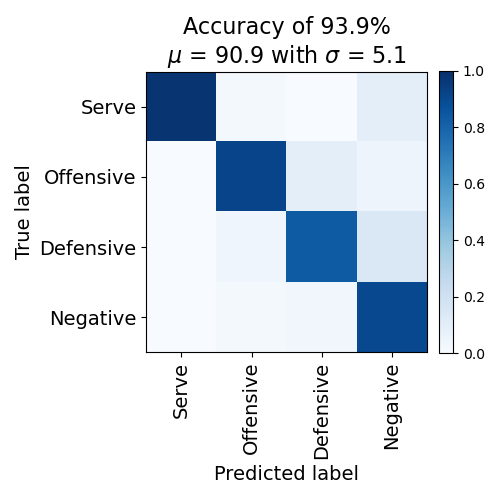
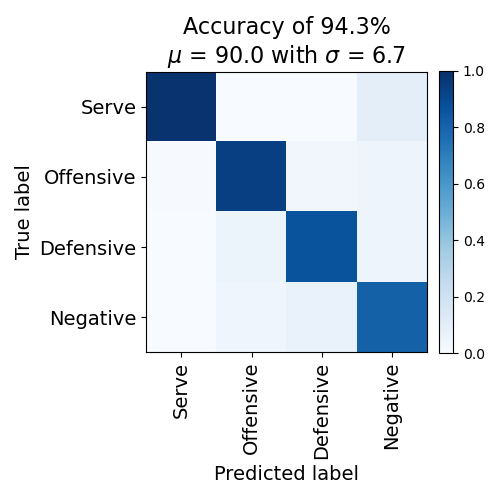
changes in eval

diff --git a/model.py b/model.py
@@ -433,6 +433,9 @@ class CNNAttentionNetV2_Stream(nn.Module):
         features = self.linear2(features)
         return features
 
+'''
+Version 1 of CNNAttentionNet including TwoStream approach
+'''
 class CNNAttentionNetV1_TwoStream(nn.Module):
     def __init__(self, size_data, n_classes, in_dim=3, filters=[8,16,32,64,128,256], cuda=True):
         super(CNNAttentionNetV1_TwoStream, self).__init__()
@@ -451,6 +454,9 @@ class CNNAttentionNetV1_TwoStream(nn.Module):
         s2_out = self.stream_two(features_s2)
         return self.final(s1_out + s2_out)
 
+'''
+Version 2 of CNNAttentionNet including TwoStream approach
+'''
 class CNNAttentionNetV2_TwoStream(nn.Module):
     def __init__(self, size_data, n_classes, in_dim=3, filters=[32,64,128,256,512], cuda=True):
         super(CNNAttentionNetV2_TwoStream, self).__init__()
@@ -470,7 +476,9 @@ class CNNAttentionNetV2_TwoStream(nn.Module):
         s2_out = self.stream_two(features_s2)
         return self.final(s1_out + s2_out)
 
-
+'''
+Version 2 of CNNAttentionNet TwoStream including late fusion
+'''
 class CNNAttentionNetV2L_TwoStream(nn.Module):
     def __init__(self, size_data, n_classes, in_dim=3, filters=[32,64,128,256,512], cuda=True):
         super(CNNAttentionNetV2L_TwoStream, self).__init__()
@@ -533,11 +541,16 @@ class CNNAttentionNetV2L_TwoStream(nn.Module):
         features_s1 = self.linear2_s1(features_s1)
         features_s2 = self.linear2_s2(features_s2)
 
-        feature_final = torch.cat((features_s1,features_s2), dim=1)
+        #feature_final = torch.cat((features_s1,features_s2), dim=1)
+        feature_final = torch.stack((features_s1,features_s2), dim=1)
+        #feature_final = torch.cat(torch.stack((features_s1,features_s2), dim=1), dim=1)
         feature_final = self.linear_fuse(feature_final)
 
         return self.final(feature_final)
 
+'''
+Version 2 of CNNAttentionNet TwoStream including middle fusion
+'''
 class CNNAttentionNetV2M_TwoStream(nn.Module):
     def __init__(self, size_data, n_classes, in_dim=3, filters=[32,64,128,256,512], cuda=True):
         super(CNNAttentionNetV2M_TwoStream, self).__init__()
@@ -598,8 +611,9 @@ class CNNAttentionNetV2M_TwoStream(nn.Module):
 
         return self.final(features)
         
-# continuas fusion after every layer
-
+'''
+Version 2 of CNNAttentionNet TwoStream including continuous early fusion
+'''
 class CNNAttentionNetV2C_TwoStream(nn.Module):
     def __init__(self, size_data, n_classes, in_dim=3, filters=[32,64,128,256,512], cuda=True):
         super(CNNAttentionNetV2C_TwoStream, self).__init__()
@@ -649,9 +663,14 @@ class CNNAttentionNetV2C_TwoStream(nn.Module):
         if cuda:
             self.cuda()
 
+    # def fusion(self, features_s1, features_s2, fusion_perc = 0.3):
+    #     fused = features_s1 * (1 - fusion_perc) + features_s2 * fusion_perc
+    #     return fused
     def fusion(self, features_s1, features_s2, fusion_perc = 0.3):
-        fused = features_s1 * (1 - fusion_perc) + features_s2 * fusion_perc
-        return fused
+        if features_s1 > features_s2:
+            return features_s1
+        else:
+            return features_s2
 
     def forward(self, features_s1, features_s2):
 
@@ -672,7 +691,6 @@ class CNNAttentionNetV2C_TwoStream(nn.Module):
 
         features_s1 = self.linear2_s1(features_s1 + features_s2)
         features_s2 = self.linear2_s2(features_s2)
-
 
         return self.final(features_s1 + features_s2)
 

diff --git a/data/evaluation.py b/data/evaluation.py
@@ -273,14 +273,10 @@ def evaluate_classification(run_path, set_path, run):
             numCorrectActions += 1
 
     # Save different confusions matrices
-    print('cf1 y_true', gt_conf_matrix)
-    print('cf1 y_pred', prediction_conf_matrix)
     plot_confusion_matrix(
         confusion_matrix(gt_conf_matrix, prediction_conf_matrix, labels=dict_of_moves),
         dict_of_moves,
         os.path.join(run_path, 'cm.png'))
-    print('cf2 y_true', [dict_of_strokes_serve_hand[i] for i in gt_conf_matrix])
-    print('cf2 y_pred', [dict_of_strokes_serve_hand[i] for i in prediction_conf_matrix])
     plot_confusion_matrix(
         confusion_matrix([dict_of_strokes_serve_hand[i] for i in gt_conf_matrix], [dict_of_strokes_serve_hand[i] for i in prediction_conf_matrix]),
         list_of_strokes_serve_hand,
@@ -404,7 +400,8 @@ def evaluate_detection(run_path, set_path):
     # precision_sorted_maxleft = [max(precision_sorted[idx:]) for idx in range(len(precision_sorted))]
     # AP = (precision_sorted_maxleft*(np.append(recall_sorted[0],recall_sorted[1:]-recall_sorted[:-1]))).sum()
 
-    for idx, item in [0, 5, 9]:
+    #for idx, item in enumerate(iou_thresholds):
+    for idx in [0, 5]:
         print("With IoU threshold of %g" % iou_thresholds[idx])
         print('\tPrecision: %f, Recall: %f, dedicated AP: %f' % (precision[idx], recall[idx], precision[idx]*recall[idx]))
     print("\nMean Average Precision at IoU=.50:.05:.95 = %f" % np.mean(precision*recall))
@@ -428,7 +425,7 @@ if __name__ == "__main__":
         if os.path.isdir(classification_path):
             print('\nClassification task:')
             idx=0
-            for idx, run in enumerate(os.listdir(classification_path)):
+            for idx, run in enumerate(sorted(os.listdir(classification_path))):
                 run_path = os.path.join(classification_path, run)
                 print('run_path', run_path)
                 if os.path.isdir(run_path):
@@ -445,7 +442,7 @@ if __name__ == "__main__":
         if os.path.isdir(detection_path):
             print('\nDetection task:')
             idx=0
-            for idx, run in enumerate(os.listdir(detection_path).sort()):
+            for idx, run in enumerate(sorted(os.listdir(detection_path))):
                 run_path = os.path.join(detection_path, run)
                 if os.path.isdir(run_path):
                     idx+=1

diff --git a/main_2.py b/main_2.py
@@ -940,8 +940,8 @@ def detection_task(working_folder, source_folder, data_in, epochs, model_load, m
     # Test process
     load_checkpoint(model, args)
     if test_include is not None:
-        test_model(model, args, test_loader, test_include) #!!
-        #test_prob_and_vote(model, args, test_strokes_list, test_include)
+        #test_model(model, args, test_loader, test_include) #!!
+        test_prob_and_vote(model, args, test_strokes_list, test_include)
         list_of_test_videos_streams = []
         for path in task_paths:
             print('test_paths', task_paths)
@@ -950,8 +950,8 @@ def detection_task(working_folder, source_folder, data_in, epochs, model_load, m
             print('test_videos', test_videos)
             list_of_test_videos_streams.append(test_videos)
         print('list_of_test_videos_streams', list_of_test_videos_streams)
-        #list_of_test_videos = get_videos_list(os.path.join(task_paths, 'test')) #??? what is task_path here?
-        test_videos_segmentation(model, args, list_of_test_videos_streams, test_include) #??? what is task_path here?
+        #list_of_test_videos = get_videos_list(os.path.join(task_paths, 'test'))
+        test_videos_segmentation(model, args, list_of_test_videos_streams, test_include)
     return 1
 
 def test_stream_design(working_folder, test_include):
